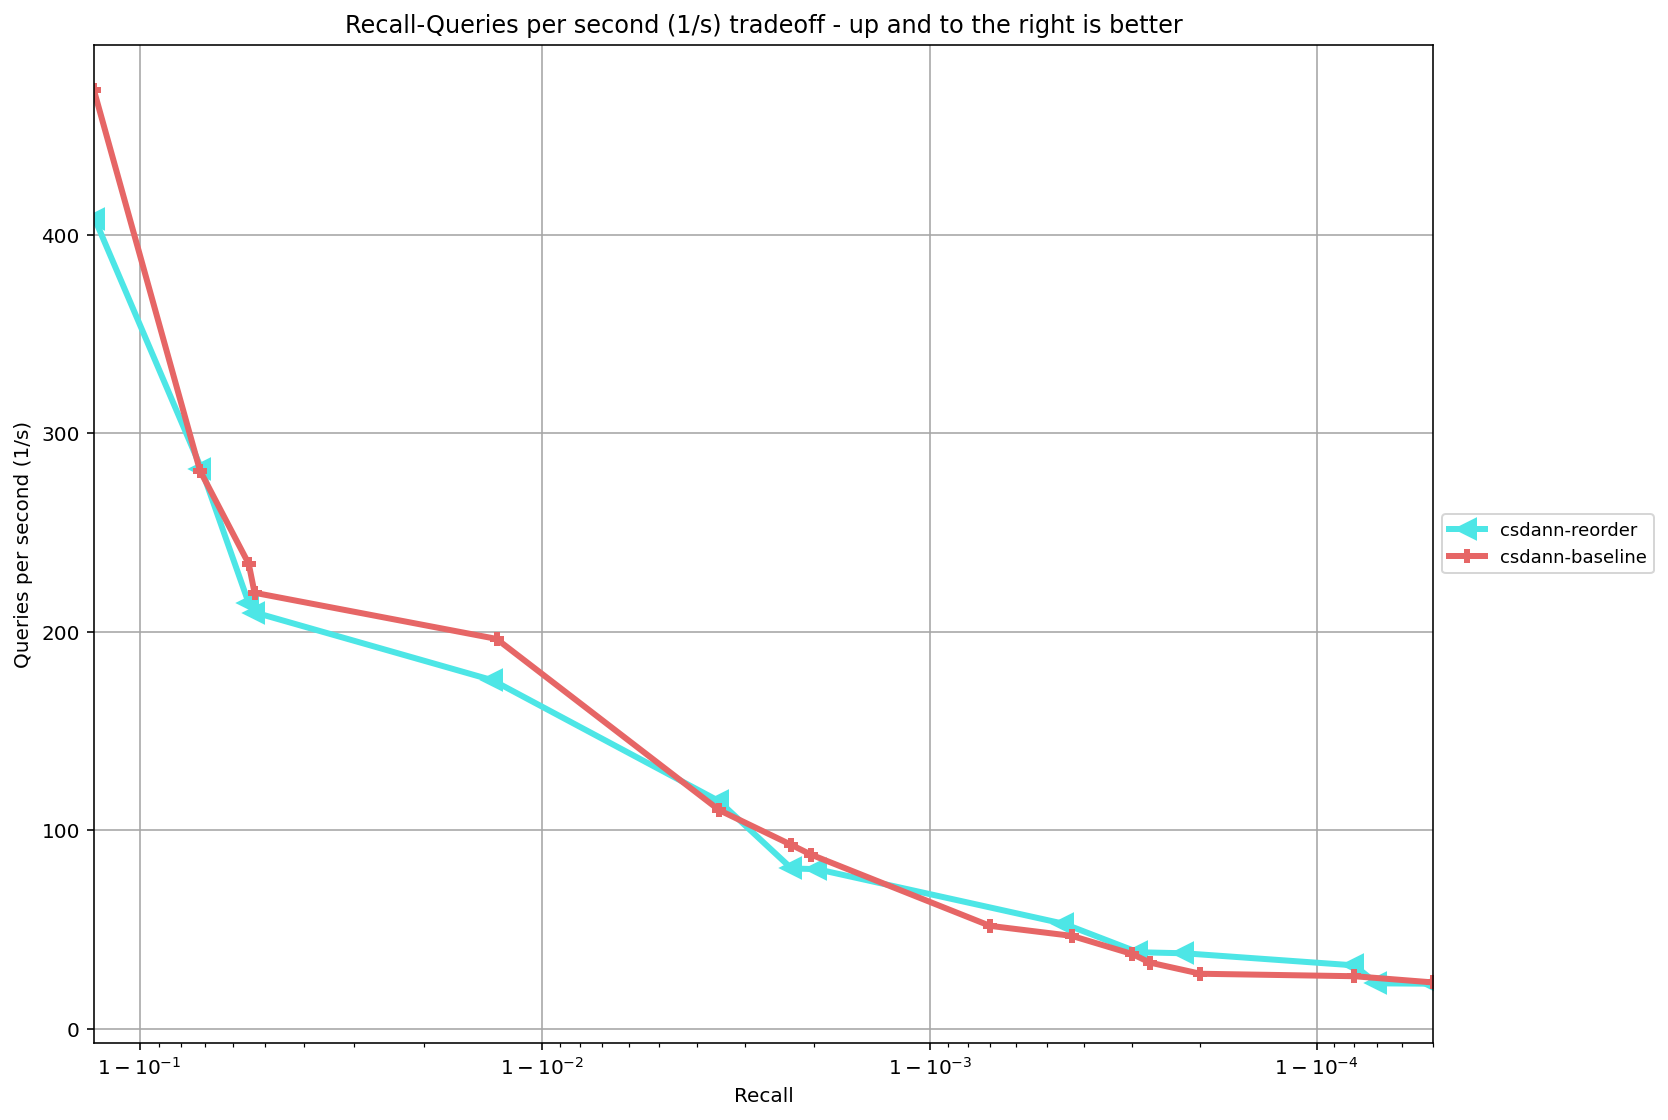
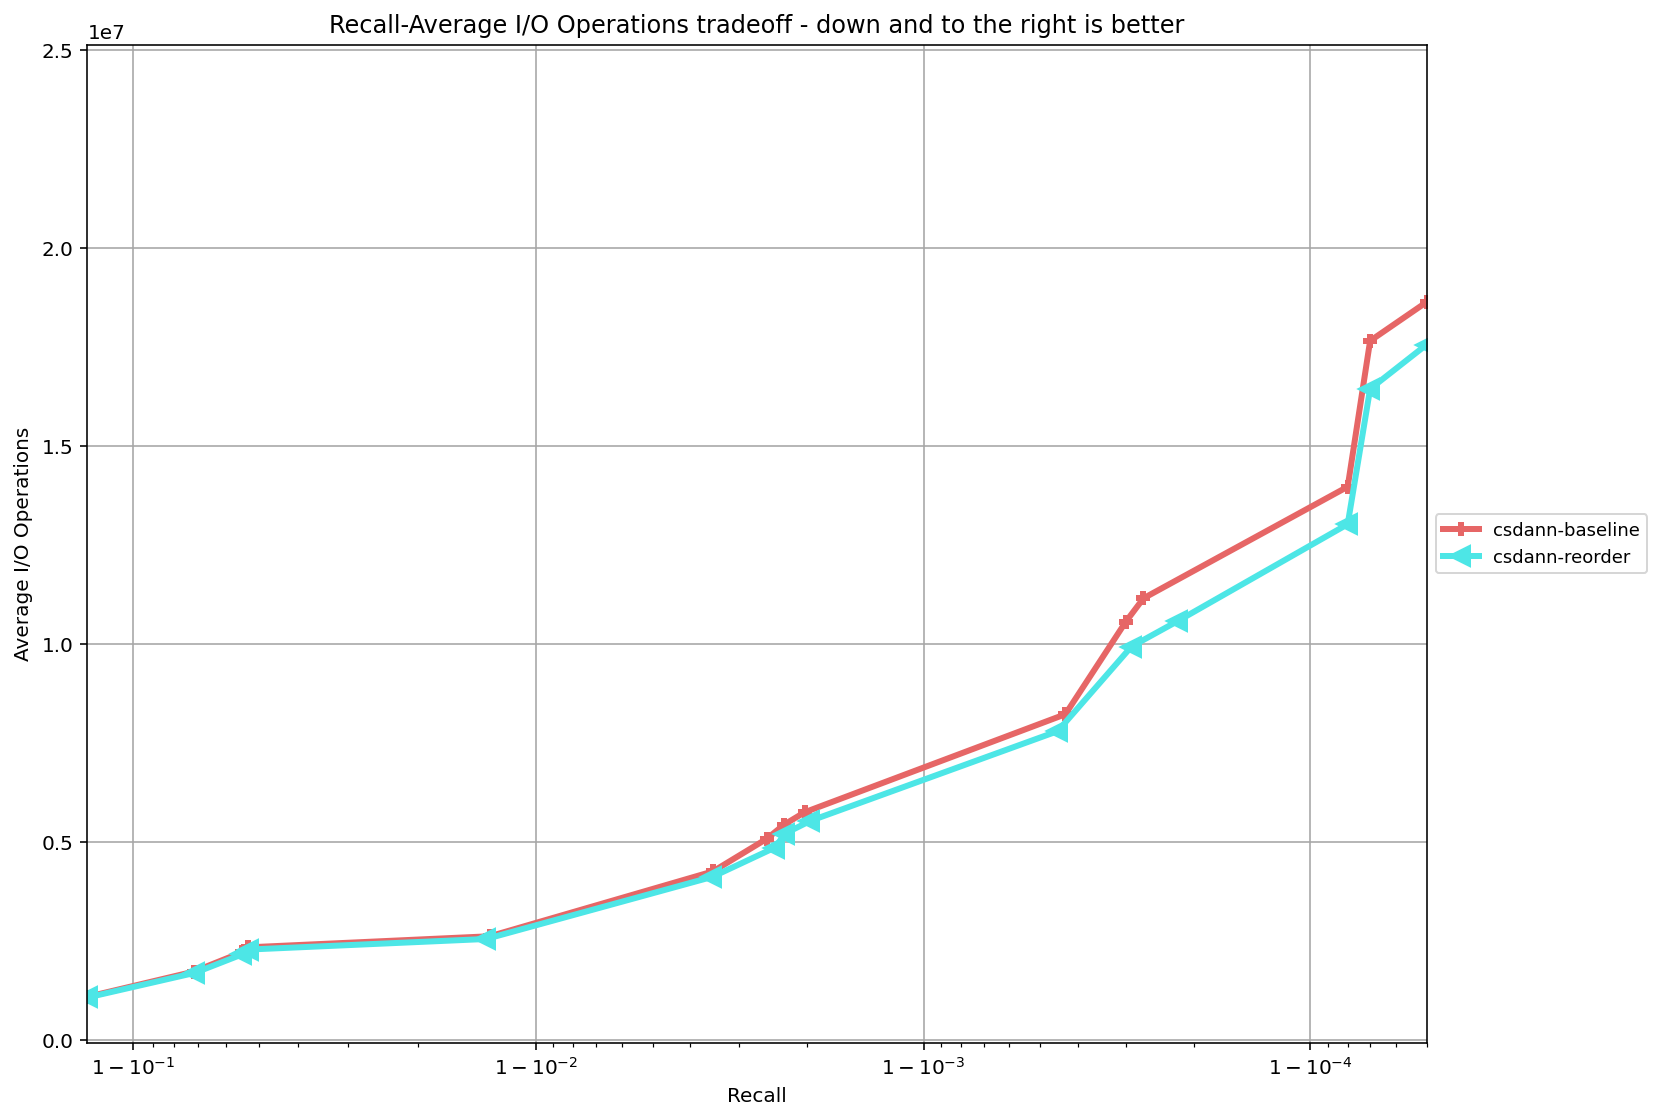
add result_analyse

diff --git a/result_analyse/simulator.py b/result_analyse/simulator.py
@@ -1,0 +1,135 @@
+import numpy as np
+
+def simulate_performance(
+    # 召回率
+    recall_target: float,
+
+    # 资源限制
+    available_cache_pages: int,
+    cpu_cores: int,
+
+    # 算法模型参数
+    beam_width: int,            # 搜索束宽，表示一次向SSD并行提交的IO个数
+    cache_hit_rate: float,      # 缓存命中率 (0.0 - 1.0)
+    C: float = 1,  # 算法IO复杂度系数
+    K: float = 1,  # 数据集稀疏度，值越大表示搜索的IO次数越多
+    T_cpu_base_us: float = 500.0,
+    T_cpu_per_node_us: float = 20.0,
+
+    # --- 硬件物理参数 ---
+    T_ssd_latency_base_us: float = 60,
+    ssd_iops_base: float = 370000,
+
+    # --- 随机性参数 ---
+    sim_rounds: int = 1000,
+    jitter_io_complexity: float = 0.2,
+    jitter_latency_sigma: float = 0.4,
+    jitter_system_noise: float = 0.05,
+    jitter_cpu_overhead: float = 0.1,      # T_cpu_base_us 的随机波动
+    jitter_cpu_per_node: float = 0.1,      # T_cpu_per_node_us 的随机波动
+    jitter_cache_hit: float = 0.05         # cache_hit_rate 的随机波动
+) -> dict:
+    
+    # 限制召回率上限，防止 Log(0)
+    effective_recall = min(recall_target, 0.99995)
+    real_pages_per_req = beam_width
+
+    # 向量化生成随机 IO
+    error_rate = 1.0 - effective_recall
+    base_logical_ios = C * K * (1.0 / error_rate)
+
+    # 带有波动的逻辑IO
+    sim_logical_ios = np.random.normal(loc=base_logical_ios, scale=base_logical_ios * jitter_io_complexity, size=sim_rounds)
+    sim_logical_ios = np.maximum(sim_logical_ios, 1.0)
+
+    # 即使物理IO为0，CPU依然需要处理所有逻辑节点
+    sim_cpu_nodes_processed = sim_logical_ios
+
+    # 硬件波动
+    mu = np.log(T_ssd_latency_base_us)
+    sim_ssd_latencies_us = np.random.lognormal(mean=mu, sigma=jitter_latency_sigma, size=sim_rounds)
+    
+    sim_ssd_iops_cap = np.random.normal(loc=ssd_iops_base, scale=ssd_iops_base * jitter_system_noise, size=sim_rounds)
+    sim_cpu_cores_cap = np.random.normal(loc=cpu_cores, scale=cpu_cores * jitter_system_noise, size=sim_rounds)
+    
+    # 保护下限
+    sim_ssd_iops_cap = np.maximum(sim_ssd_iops_cap, 1000.0)
+    sim_cpu_cores_cap = np.maximum(sim_cpu_cores_cap, 1.0)
+
+    # CPU开销随机波动 (对数正态分布，保持正值)
+    mu_cpu_base = np.log(T_cpu_base_us)
+    sim_cpu_base_us = np.random.lognormal(mean=mu_cpu_base, sigma=jitter_cpu_overhead, size=sim_rounds)
+
+    mu_cpu_node = np.log(T_cpu_per_node_us)
+    sim_cpu_per_node_us = np.random.lognormal(mean=mu_cpu_node, sigma=jitter_cpu_per_node, size=sim_rounds)
+
+    # 缓存命中率随机波动 (有界高斯分布，限制在[0,1])
+    sim_cache_hit_rate = np.random.normal(loc=cache_hit_rate, scale=cache_hit_rate * jitter_cache_hit, size=sim_rounds)
+    sim_cache_hit_rate = np.clip(sim_cache_hit_rate, 0.0, 0.9999)
+
+    # 应用缓存命中率计算物理 IO
+    sim_physical_ios = sim_logical_ios * (1.0 - sim_cache_hit_rate)
+    sim_physical_ios = np.maximum(sim_physical_ios, 0.0)
+
+    # Latency
+    sim_io_rounds = np.ceil(sim_physical_ios / beam_width)
+    sim_latencies_us = (
+        sim_cpu_base_us +
+        (sim_io_rounds * sim_ssd_latencies_us) +
+        (sim_cpu_nodes_processed * sim_cpu_per_node_us)
+    )
+    sim_latencies_sec = sim_latencies_us / 1_000_000.0
+    
+    # QPS (Three Bound Analysis)
+    # Disk Bound
+    with np.errstate(divide='ignore'):
+        qps_disk = np.where(sim_physical_ios > 0.1, 
+                            sim_ssd_iops_cap / sim_physical_ios, 
+                            99999999.0)
+    
+    # CPU Bound (使用平均CPU开销)
+    avg_cpu_base = np.mean(sim_cpu_base_us)
+    avg_cpu_per_node = np.mean(sim_cpu_per_node_us)
+    cpu_active_time_us = avg_cpu_base + (sim_cpu_nodes_processed * avg_cpu_per_node)
+    qps_cpu = (sim_cpu_cores_cap * 1_000_000.0) / cpu_active_time_us
+    
+    # Memory/Concurrency Bound
+    max_concurrency = max(1, int(available_cache_pages // real_pages_per_req))
+    qps_buffer = max_concurrency / sim_latencies_sec
+    
+    final_qps = np.minimum(qps_disk, np.minimum(qps_cpu, qps_buffer))
+    
+    bottleneck_matrix = np.vstack([qps_disk, qps_cpu, qps_buffer])
+    bottleneck_indices = np.argmin(bottleneck_matrix, axis=0)
+    b_counts = np.bincount(bottleneck_indices, minlength=3)
+    total_samples = float(sim_rounds)
+    analysis = {
+        "Disk_Bound_Prob": round(b_counts[0] / total_samples, 3),
+        "CPU_Bound_Prob": round(b_counts[1] / total_samples, 3),
+        "Buffer_Bound_Prob": round(b_counts[2] / total_samples, 3)
+    }
+
+    return {
+        "input_summary_recall_target": recall_target,
+        "input_summary_avg_physical_io": round(float(np.mean(sim_physical_ios)), 1),
+        "input_summary_max_concurrency": max_concurrency,
+        "input_summary_cache_hit_rate": cache_hit_rate,
+        "latency_ms_mean": round(float(np.mean(sim_latencies_us) / 1000), 2),
+        "latency_ms_p50": round(float(np.percentile(sim_latencies_us, 50) / 1000), 2),
+        "latency_ms_p99": round(float(np.percentile(sim_latencies_us, 99) / 1000), 2),
+        "latency_ms_max": round(float(np.max(sim_latencies_us) / 1000), 2),
+        "qps_mean": int(np.mean(final_qps)),
+        "qps_p50": int(np.percentile(final_qps, 50)),
+        "qps_p99": int(np.percentile(final_qps, 99)),
+        "qps_stddev": int(np.std(final_qps)),
+        "bottleneck": analysis
+    }
+
+recall_target = [0.9, 0.92, 0.95, 0.97, 0.99, 0.992, 0.995, 0.997, 0.999]
+
+# 2. Beam Width (搜索束宽)
+beam_width = [20, 20, 20, 20, 20, 20, 20, 20, 20]
+
+# 3. Cache Hit Rate
+# 解释：召回率低时只需在图的上层游走（热点高）；召回率高时需深挖底层（冷数据多）
+cache_hit_rate = [0.35, 0.33, 0.30, 0.25, 0.20, 0.18, 0.15, 0.12, 0.08]

diff --git a/result_analyse/plot.py b/result_analyse/plot.py
@@ -1,0 +1,113 @@
+from data import *
+from simulator import simulate_performance
+import matplotlib.pyplot as plt
+import numpy as np
+
+
+def plot_result_of_baseline_and_reorder():
+    # 获取两个算法的9组模拟结果
+    baseline_results = []
+    reorder_results = []
+
+    for recall in recall_target:
+        idx = recall_target.index(recall)
+        baseline_results.append(simulate_performance(
+            recall_target=recall,
+            available_cache_pages=available_cache_pages,
+            cpu_cores=cpu_cores,
+            beam_width=beam_width,
+            cache_hit_rate=hnsw_baseline_cache_hit_rate[idx],
+            C=hnsw_baseline_C,
+            T_cpu_base_us=hnsw_baseline_cpu_base_us
+        ))
+        reorder_results.append(simulate_performance(
+            recall_target=recall,
+            available_cache_pages=available_cache_pages,
+            cpu_cores=cpu_cores,
+            beam_width=beam_width,
+            cache_hit_rate=hnsw_reorder_cache_hit_rate[idx],
+            C=hnsw_reorder_C,
+            T_cpu_base_us=hnsw_reorder_cpu_base_us
+        ))
+
+    # 提取数据
+    cache_hit_rate_baseline = hnsw_baseline_cache_hit_rate
+    cache_hit_rate_reorder = hnsw_reorder_cache_hit_rate
+    latency_baseline = [r['latency_ms_mean'] for r in baseline_results]
+    latency_reorder = [r['latency_ms_mean'] for r in reorder_results]
+    qps_baseline = [r['qps_mean'] for r in baseline_results]
+    qps_reorder = [r['qps_mean'] for r in reorder_results]
+
+    # 设置学术论文风格
+    plt.rcParams.update({
+        'font.size': 12,
+        'axes.titlesize': 14,
+        'axes.labelsize': 13,
+        'legend.fontsize': 11,
+        'xtick.labelsize': 11,
+        'ytick.labelsize': 11,
+        'figure.figsize': (6, 4.5),
+        'font.family': 'serif',
+    })
+
+    x = np.arange(len(recall_target))
+    width = 0.35
+
+    # 图1: cache_hit_rate柱状图
+    fig1, ax1 = plt.subplots(figsize=(6, 4.5))
+    bars1 = ax1.bar(x - width/2, [c * 100 for c in cache_hit_rate_baseline], width,
+                    label='hnsw_baseline', color='#2E86AB', edgecolor='black', linewidth=0.5)
+    bars2 = ax1.bar(x + width/2, [c * 100 for c in cache_hit_rate_reorder], width,
+                    label='hnsw_reorder', color='#E94F37', edgecolor='black', linewidth=0.5)
+    ax1.set_xlabel('Recall')
+    ax1.set_ylabel('Cache Hit Rate (%)')
+    ax1.set_xticks(x)
+    ax1.set_xticklabels([str(r) for r in recall_target], rotation=45, ha='right')
+    ax1.legend(loc='upper right')
+    ax1.grid(axis='y', linestyle='--', alpha=0.7)
+    ax1.set_ylim(0, 60)
+    plt.tight_layout()
+    fig1.savefig('baseline_vs_reorder/cache_hit_rate.png', dpi=300)
+    plt.close(fig1)
+
+    # 计算 error_rate 作为横坐标（更均匀的分布）
+    error_rates = [1 - r for r in recall_target]
+
+    # 图2: latency折线图（使用log scale）
+    fig2, ax2 = plt.subplots(figsize=(6, 4.5))
+    ax2.plot(error_rates, latency_baseline, 'o-', label='hnsw_baseline',
+             color='#2E86AB', linewidth=2, markersize=6)
+    ax2.plot(error_rates, latency_reorder, 's-', label='hnsw_reorder',
+             color='#E94F37', linewidth=2, markersize=6)
+    ax2.set_xscale('log')
+    ax2.set_xlabel('Error Rate (1 - Recall)')
+    ax2.set_ylabel('Latency (ms)')
+    ax2.invert_xaxis()  # 反转使高recall在右
+    ax2.legend(loc='upper right')
+    ax2.grid(True, linestyle='--', alpha=0.7, which='both')
+    plt.tight_layout()
+    fig2.savefig('baseline_vs_reorder/latency.png', dpi=300)
+    plt.close(fig2)
+
+    # 图3: qps折线图（使用log scale）
+    fig3, ax3 = plt.subplots(figsize=(6, 4.5))
+    ax3.plot(error_rates, qps_baseline, 'o-', label='hnsw_baseline',
+             color='#2E86AB', linewidth=2, markersize=6)
+    ax3.plot(error_rates, qps_reorder, 's-', label='hnsw_reorder',
+             color='#E94F37', linewidth=2, markersize=6)
+    ax3.set_xscale('log')
+    ax3.set_xlabel('Error Rate (1 - Recall)')
+    ax3.set_ylabel('QPS')
+    ax3.invert_xaxis()  # 反转使高recall在右
+    ax3.legend(loc='upper right')
+    ax3.grid(True, linestyle='--', alpha=0.7, which='both')
+    plt.tight_layout()
+    fig3.savefig('baseline_vs_reorder/qps.png', dpi=300)
+    plt.close(fig3)
+
+    print("图表已保存到 baseline_vs_reorder/ 目录:")
+    print("  - cache_hit_rate.png")
+    print("  - latency.png")
+    print("  - qps.png")
+
+plot_result_of_baseline_and_reorder()

diff --git a/result_analyse/data.py b/result_analyse/data.py
@@ -1,0 +1,20 @@
+recall_target = [0.9, 0.92, 0.95, 0.97, 0.99, 0.992, 0.995, 0.997, 0.999]
+beam_width = 8
+available_cache_pages = 128
+cpu_cores = 6
+
+# available_cache_pages
+# cpu_cores
+# cache_hit_rate
+# C: float = 1, 算法IO复杂度系数
+# K: float = 1, 数据集稀疏度，值越大表示搜索的IO次数越多
+# T_cpu_base_us: float = 500.0  // 在内存图中的导航时间
+
+hnsw_baseline_C = 10
+hnsw_reorder_C = 6
+
+hnsw_baseline_cache_hit_rate = [0.45, 0.38, 0.36, 0.35, 0.33, 0.32, 0.30, 0.29, 0.27]
+hnsw_reorder_cache_hit_rate = [0.50, 0.42, 0.41, 0.40, 0.38, 0.38, 0.36, 0.35, 0.34]
+
+hnsw_baseline_cpu_base_us = 0
+hnsw_reorder_cpu_base_us = 0

diff --git a/ann_benchmarks/algorithms/hnswlib/module.py b/ann_benchmarks/algorithms/hnswlib/module.py
@@ -38,6 +38,15 @@ class HnswLib(BaseANN):
         # print(np.expand_dims(v,axis=0).shape)
         # print(self.p.knn_query(np.expand_dims(v,axis=0), k = n)[0])
         return self.p.knn_query(np.expand_dims(v, axis=0), k=n)[0][0]
+    
+    def batch_query(self, X, n: int) -> None:
+        # X shape: (num_queries, dim)
+        # knn_query returns: (labels_array, distances_array)
+        # labels_array shape: (num_queries, n), dtype: int64
+        self.res, _ = self.p.knn_query(X, k=n, num_threads=6)
+
+    def get_batch_results(self):
+        return self.res
 
     def get_additional(self):
         """从C++ binding获取性能指标"""

diff --git a/ann_benchmarks/main.py b/ann_benchmarks/main.py
@@ -77,7 +77,7 @@ def run_worker(cpu: int, mem_limit: int, args: argparse.Namespace, queue: multip
         if args.local:
             run(definition, args.dataset, args.count, args.runs, args.batch)
         else:
-            cpu_limit = str(cpu) if not args.batch else f"0-{multiprocessing.cpu_count() - 1}"
+            cpu_limit = str(cpu) if not args.batch else f"0-5"
             
             run_docker(definition, args.dataset, args.count, args.runs, args.timeout, args.batch, cpu_limit, mem_limit)
 

diff --git a/ann_benchmarks/runner.py b/ann_benchmarks/runner.py
@@ -355,6 +355,7 @@ def run_docker(
         network_mode="host",
         cpuset_cpus=cpu_limit,
         mem_limit=mem_limit,
+        security_opt=["seccomp=unconfined"],
         detach=True,
     )
     logger = logging.getLogger(f"annb.{container.short_id}")
